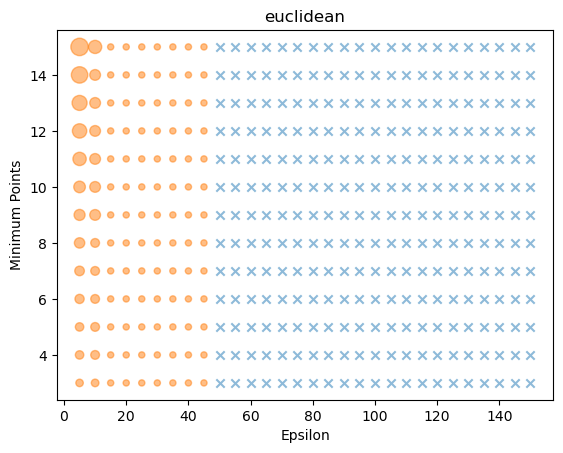
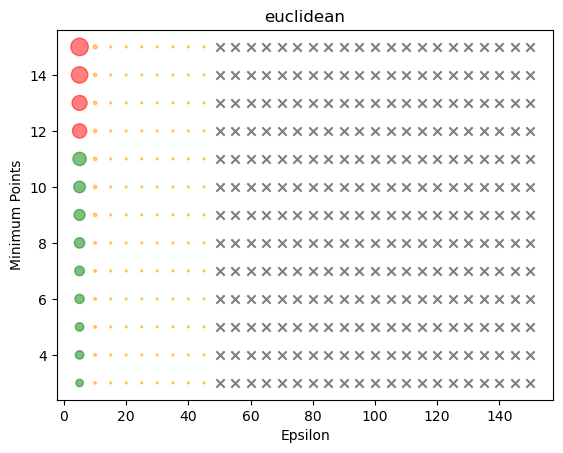
editing work

diff --git a/README.md b/README.md
@@ -45,8 +45,9 @@ Through trial and error the Euclidean distance metric with an Epsilon of 5 and m
  
 ![Bubble graph of removed songs per Epsilon & Min_Points](Graphs/euclidean.png)
  
-The red bubbles represent removed songs - note results < 10 are multiplied by 10 - while blue crosses are runs which didn't remove any outliers.
-These values resulted in 1 cluster and removed 37 songs when applied to the dataset. Based on some testing using the Euclidean metric, higher Epsilon values tend towards creating only 1 cluster. Runs which resulted in several clusters would remove over 200 songs, which is a major truncation of the dataset. 
+The red bubbles represent parameters which removed over 100 songs, & were judged to remove too many features. Orange bubbles removed under 10 songs, & were therefore ineffective at removing many outliers. Green bubbles are parameter combinations which removed between 10 & 100 songs. Black 'X's are combinations which didn't removed any songs. 
+
+These values resulted in 1 cluster and removed 37 songs when applied to the dataset. Based on some testing using the Euclidean metric, higher Epsilon values tend towards creating only 1 cluster. Runs which resulted in several clusters would remove over 200 songs, which is a major truncation of the dataset.
 
 ### Exploratory Data Visualization
 Below are some visualizations of the data with outliers removed:
